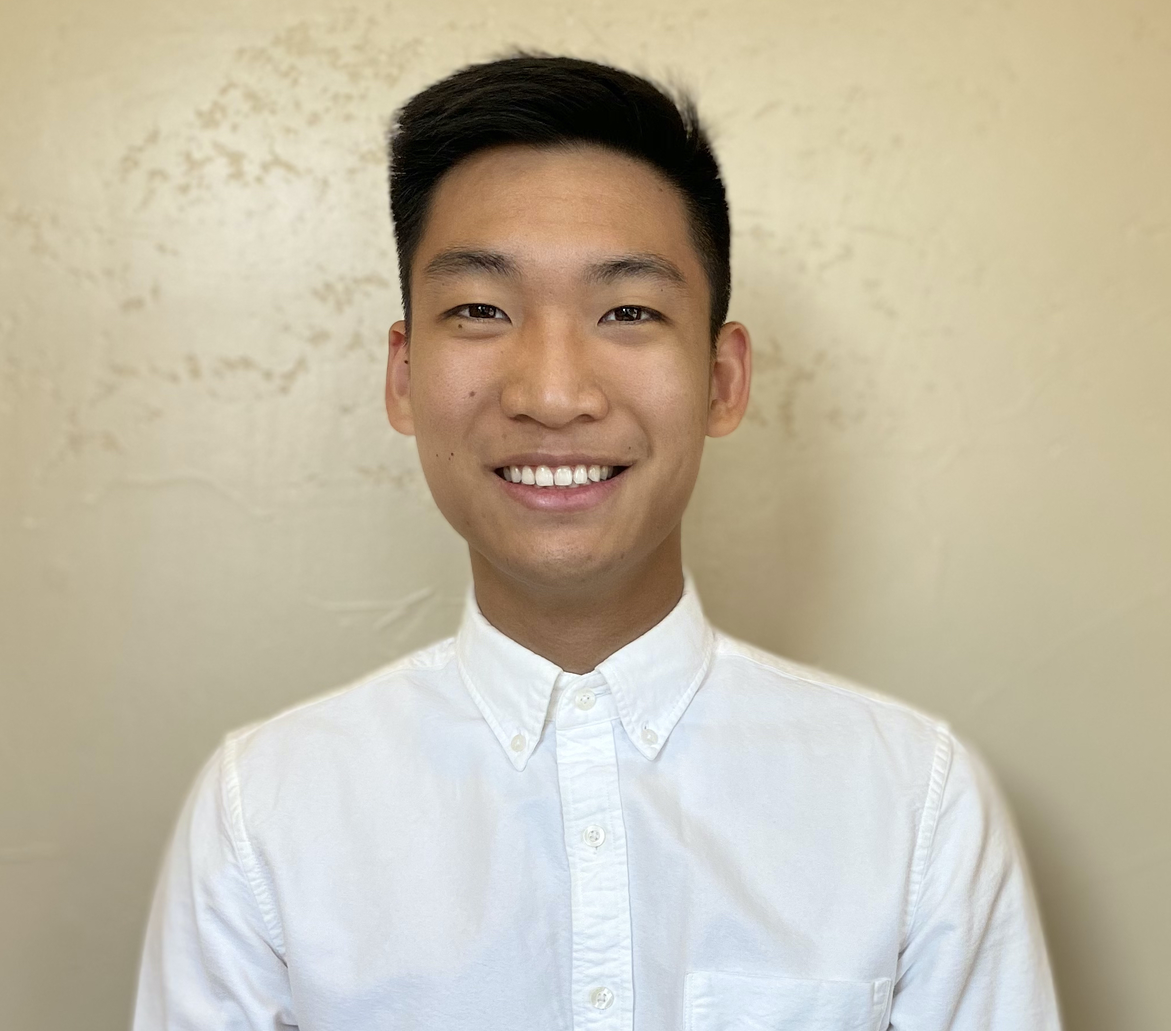
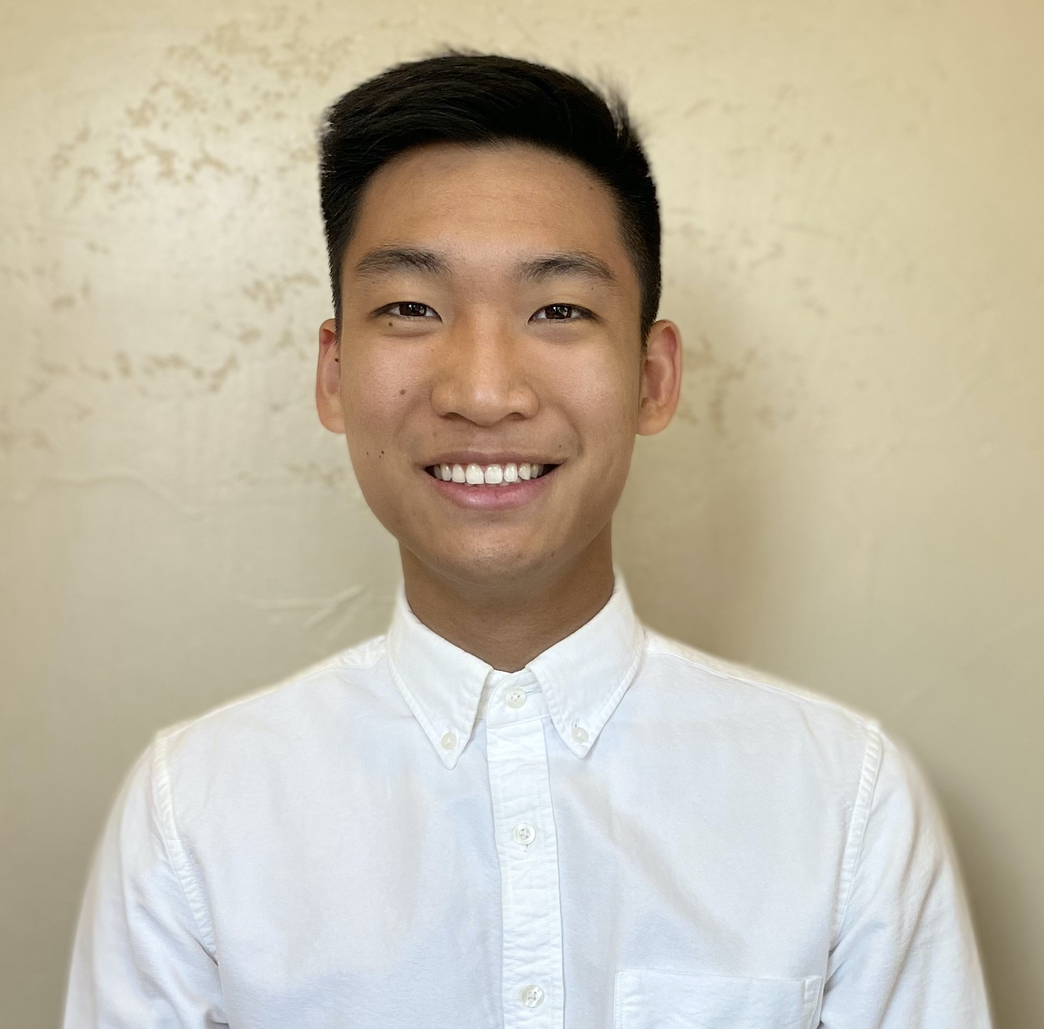
Website photo sizing test

diff --git a/index.html b/index.html
@@ -90,21 +90,21 @@ div.scrollmenu a:hover {
 
   <div class="w3-row-padding" style="max-width: 1200px; margin: auto">
 	<div class="w3-col s4 w3-margin-bottom">
-      <img src="/images/George.jpg" alt="George" style="height:250px">
+      <img src="/images/George.jpg" alt="George" style="height:350px">
       <h3>George Daghlian</h3>
       <p class="w3-opacity">1st-year MD/PhD at UCLA/Caltech</p>
       <p>Life-story here, LOL</p>
       <p><button class="w3-button w3-light-grey w3-block">Contact</button></p>
     </div>
     <div class="w3-col s4 w3-margin-bottom">
-      <img src="/images/Dimitri.jpg" alt="Dimitri" style="height:250px">
+      <img src="/images/Dimitri.jpg" alt="Dimitri" style="height:350px">
       <h3>Dimitri Cadet</h3>
       <p class="w3-opacity">1st-year MD/PhD at UCLA/Caltech</p>
       <p>Life-story here, LOL</p>
       <p><button class="w3-button w3-light-grey w3-block">Contact</button></p>
     </div>
     <div class="w3-col s4 w3-margin-bottom">
-      <img src="/images/Daniel.jpg" alt="Daniel" style="height:250px">
+      <img src="/images/Daniel.jpg" alt="Daniel" style="height:350px">
       <h3>Daniel Tang</h3>
       <p class="w3-opacity">1st-year MD/PhD at UCLA/Caltech</p>
       <p>Life-story here, LOL</p>
